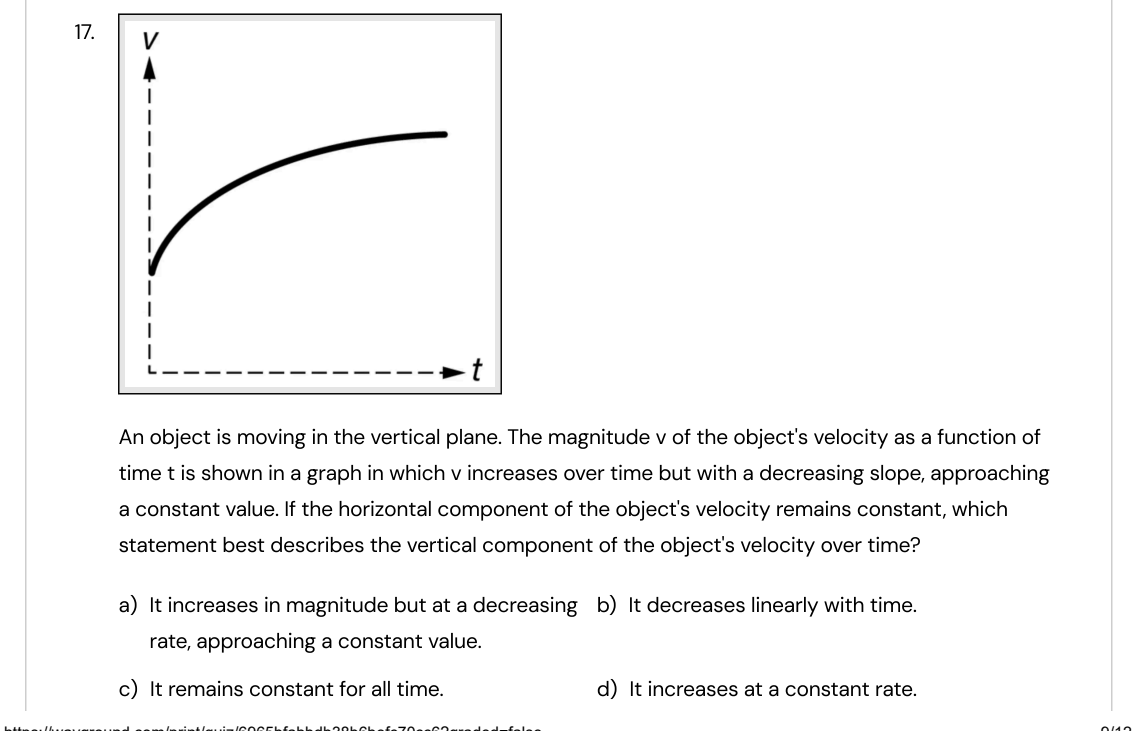
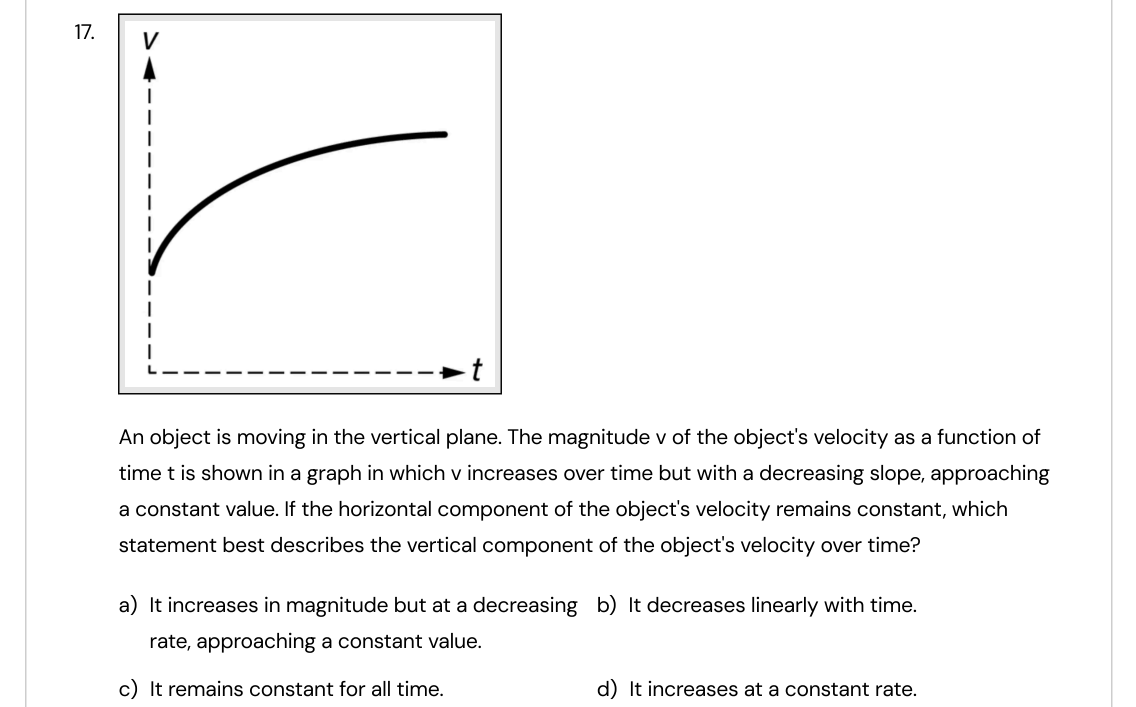
Fix unit 1 midterm review cards

diff --git a/VectorSelect by Mr. F/data/exams_bundle.js b/VectorSelect by Mr. F/data/exams_bundle.js
@@ -1203,7 +1203,7 @@ window.EXAM_DATA = {
                 },
                 {
                   "number": 3,
-                  "card_image": "assets/cards/app1_unit1_midterm_review_q3.png?v=20261030_v1",
+                  "card_image": "assets/cards/app1_unit1_midterm_review_q3.png?v=20261101_v2",
                   "choices": [
                     {
                       "letter": "A",
@@ -14644,7 +14644,7 @@ window.EXAM_DATA = {
               "questions": [
                 {
                   "number": 1,
-                  "card_image": "assets/cards/appc_unit1_midterm_review_q1.png?v=20261030_v1",
+                  "card_image": "assets/cards/appc_unit1_midterm_review_q1.png?v=20261101_v2",
                   "choices": [
                     {
                       "letter": "A",
@@ -14668,7 +14668,7 @@ window.EXAM_DATA = {
                 },
                 {
                   "number": 2,
-                  "card_image": "assets/cards/appc_unit1_midterm_review_q2.png?v=20261030_v1",
+                  "card_image": "assets/cards/appc_unit1_midterm_review_q2.png?v=20261101_v2",
                   "choices": [
                     {
                       "letter": "A",
@@ -14748,7 +14748,7 @@ window.EXAM_DATA = {
                 },
                 {
                   "number": 5,
-                  "card_image": "assets/cards/appc_unit1_midterm_review_q5.png?v=20261030_v1",
+                  "card_image": "assets/cards/appc_unit1_midterm_review_q5.png?v=20261101_v2",
                   "choices": [
                     {
                       "letter": "A",
@@ -14772,7 +14772,7 @@ window.EXAM_DATA = {
                 },
                 {
                   "number": 6,
-                  "card_image": "assets/cards/appc_unit1_midterm_review_q6.png?v=20261030_v1",
+                  "card_image": "assets/cards/appc_unit1_midterm_review_q6.png?v=20261101_v2",
                   "choices": [
                     {
                       "letter": "A",
@@ -15064,7 +15064,7 @@ window.EXAM_DATA = {
                 },
                 {
                   "number": 17,
-                  "card_image": "assets/cards/appc_unit1_midterm_review_q17.png?v=20261030_v1",
+                  "card_image": "assets/cards/appc_unit1_midterm_review_q17.png?v=20261101_v2",
                   "choices": [
                     {
                       "letter": "A",

diff --git a/VectorSelect by Mr. F/index.html b/VectorSelect by Mr. F/index.html
@@ -37,7 +37,7 @@
   <script src="supabase_config.js"></script>
   <!-- Offline Air-Gapped Fallback Keys (Ignored on GitHub Pages) -->
   <script src="data/answer_keys.js" onerror="/* Local air-gapped fallback only */"></script>
-  <script src="data/exams_bundle.js?v=20261029_v6"></script>
+  <script src="data/exams_bundle.js?v=20261101_v2"></script>
   <script src="data/concepts.js"></script>
   <script src="data/recovery_engine.js"></script>
   <script src="data/recovery_sims.js"></script>

diff --git a/VectorSelect by Mr. F/teacher.html b/VectorSelect by Mr. F/teacher.html
@@ -37,7 +37,7 @@
   <script src="supabase_config.js"></script>
   <!-- Offline Air-Gapped Fallback Keys (Ignored on GitHub Pages) -->
   <script src="data/answer_keys.js" onerror="/* Local air-gapped fallback only */"></script>
-  <script src="data/exams_bundle.js?v=20261029_v6"></script>
+  <script src="data/exams_bundle.js?v=20261101_v2"></script>
   <script src="data/concepts.js"></script>
   <script src="data/recovery_engine.js"></script>
   <script src="data/game_arena.js"></script>

diff --git a/VectorSelect by Mr. F/scripts/ingest_midterm_reviews.py b/VectorSelect by Mr. F/scripts/ingest_midterm_reviews.py
@@ -14,8 +14,9 @@ and integrates them cleanly into exams.json and exams_bundle.js.
 import os
 import re
 import json
+import argparse
 import pypdfium2 as pdfium
-from PIL import Image
+from PIL import Image, ImageDraw, ImageFont
 
 BASE_DIR = os.path.dirname(os.path.dirname(os.path.abspath(__file__)))
 INPUT_DIR = os.path.join(BASE_DIR, "input pdf")
@@ -27,6 +28,77 @@ BUNDLE_PATH = os.path.join(DATA_DIR, "exams_bundle.js")
 os.makedirs(CARDS_DIR, exist_ok=True)
 
 CACHE_VERSION = "20261030_v1"
+UNIT1_CARD_VERSION = "20261101_v2"
+
+
+def card_font(size):
+    for name in ("arial.ttf", "DejaVuSans.ttf"):
+        try:
+            return ImageFont.truetype(name, size)
+        except OSError:
+            continue
+    raise RuntimeError("A TrueType font (Arial or DejaVu Sans) is required")
+
+
+def repair_unit1_card(slug, qnum, page, page_img, box, scale):
+    """Repair source-specific layout defects without changing answer choices."""
+    x0, y0, x1, y1 = box
+    width = x1 - x0
+    card = page_img.crop(box).convert("RGB")
+    if slug == "app1_unit1_midterm_review" and qnum == 3:
+        header = page_img.crop((x0, y0, x1, int(177 * scale))).convert("RGB")
+        images = [obj.get_bitmap().to_pil().convert("RGB") for obj in page.get_objects()
+                  if obj.type == pdfium.raw.FPDF_PAGEOBJ_IMAGE][1:5]
+        result = Image.new("RGB", (width, header.height + 4 * 485), "white")
+        result.paste(header, (0, 0))
+        draw = ImageDraw.Draw(result)
+        font = card_font(25)
+        for i, image in enumerate(images):
+            image.thumbnail((900, 430), Image.Resampling.LANCZOS)
+            top = header.height + i * 485
+            draw.text((90, top + 8), f"{chr(97 + i)})", font=font, fill="black")
+            result.paste(image, (135, top))
+        return result.crop((0, 0, width, header.height + 4 * 485 - 25))
+    if slug != "appc_unit1_midterm_review":
+        return card
+    if qnum == 1:
+        return page_img.crop((x0, y0, x1, int(465 * scale))).convert("RGB")
+    if qnum == 2:
+        draw = ImageDraw.Draw(card)
+        draw.rectangle((int(77 * scale) - x0, int(32 * scale) - y0,
+                        width - 20, int(103 * scale) - y0), fill="white")
+        font = card_font(21)
+        for y, line in [(35, "A ball is thrown at 10 m/s at an angle of 45 degrees above the horizontal."),
+                        (53, "Ignoring air resistance, the time needed for the ball to return to the"),
+                        (71, "ground at its launch height is most nearly:")]:
+            draw.text((int(80 * scale) - x0, int(y * scale) - y0), line, font=font, fill="black")
+        return card
+    if qnum == 5:
+        header = page_img.crop((x0, y0, x1, int(48 * scale))).convert("RGB")
+        ImageDraw.Draw(header).rectangle((int(78 * scale) - x0, 0, width, header.height), fill="white")
+        diagram = next(obj.get_bitmap().to_pil().convert("RGB") for obj in page.get_objects()
+                       if obj.type == pdfium.raw.FPDF_PAGEOBJ_IMAGE)
+        diagram.thumbnail((1000, 1000), Image.Resampling.LANCZOS)
+        rest = page_img.crop((x0, int(226 * scale), x1, y1)).convert("RGB")
+        result = Image.new("RGB", (width, header.height + diagram.height + 25 + rest.height), "white")
+        result.paste(header, (0, 0))
+        result.paste(diagram, ((width - diagram.width) // 2, header.height))
+        result.paste(rest, (0, header.height + diagram.height + 25))
+        return result
+    if qnum == 6:
+        card = page_img.crop((x0, y0, x1, int(636 * scale))).convert("RGB")
+        draw = ImageDraw.Draw(card)
+        for top in (569, 593):
+            draw.rectangle((int(333 * scale) - x0, int(top * scale) - y0,
+                            int(347 * scale) - x0, int((top + 12) * scale) - y0), fill="white")
+        draw.rectangle((int(267 * scale) - x0, int(514 * scale) - y0,
+                        int(275 * scale) - x0, int(526 * scale) - y0), fill="white")
+        draw.text((int(268 * scale) - x0, int(512 * scale) - y0), "D",
+                  font=card_font(20), fill="black")
+        return card
+    if qnum == 17:
+        return page_img.crop((x0, y0, x1, int(760 * scale))).convert("RGB")
+    return card
 
 def assessment_sort_key(a):
     title = a.get("title", "")
@@ -195,11 +267,16 @@ def process_review_pdf(review_info):
             # Ensure valid box
             if y1 > y0 + 10:
                 card_filename = f"{slug}_q{qnum}.png"
-                card_rel_path = f"assets/cards/{card_filename}?v={CACHE_VERSION}"
+                repaired = ((slug == "app1_unit1_midterm_review" and qnum == 3) or
+                            (slug == "appc_unit1_midterm_review" and qnum in (1, 2, 5, 6, 17)))
+                version = UNIT1_CARD_VERSION if repaired else CACHE_VERSION
+                card_rel_path = f"assets/cards/{card_filename}?v={version}"
                 card_abs_path = os.path.join(CARDS_DIR, card_filename)
 
                 # Special enhancement for Q13 in APPC Unit 2 Midterm Review (tiny embedded 14pt image stem)
-                if slug == "appc_unit2_midterm_review" and qnum == 13:
+                if repaired:
+                    repair_unit1_card(slug, qnum, page, page_img, (x0, y0, x1, y1), scale).save(card_abs_path, optimize=True)
+                elif slug == "appc_unit2_midterm_review" and qnum == 13:
                     base_q13 = page_img.crop((x0, y0, x1, y1))
                     native_img = None
                     for obj in page.get_objects():
@@ -262,6 +339,10 @@ def process_review_pdf(review_info):
     }
 
 def main():
+    parser = argparse.ArgumentParser()
+    parser.add_argument("--review", action="append", choices=[r["slug"] for r in REVIEWS],
+                        help="Regenerate only the specified review; may be repeated.")
+    args = parser.parse_args()
     print("==================================================")
     print("INGESTING MID-TERM REVIEW EXAMS")
     print("==================================================")
@@ -272,6 +353,8 @@ def main():
     total_added = 0
     
     for rev in REVIEWS:
+        if args.review and rev["slug"] not in args.review:
+            continue
         print(f"\nProcessing: {rev['title']} ...")
         assess_obj = process_review_pdf(rev)
         if not assess_obj or not assess_obj["questions"]:
